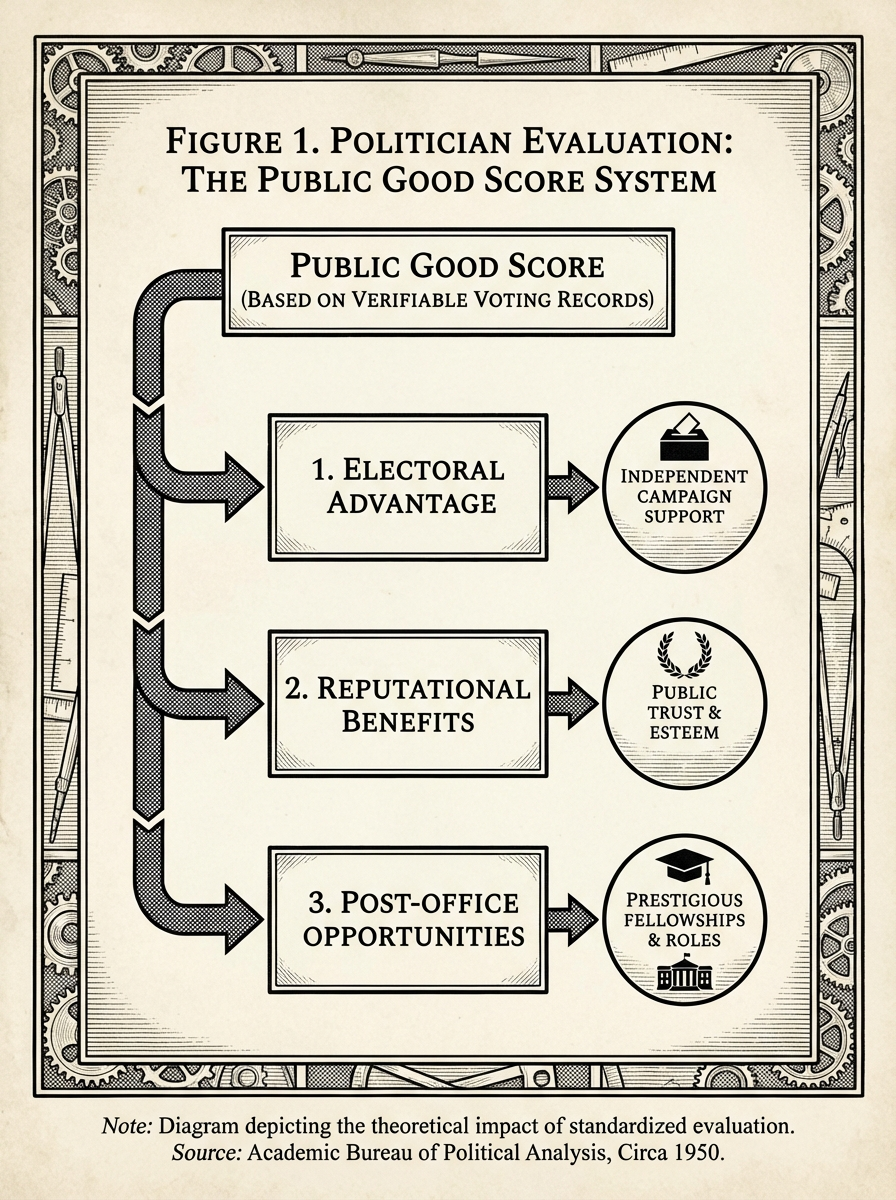
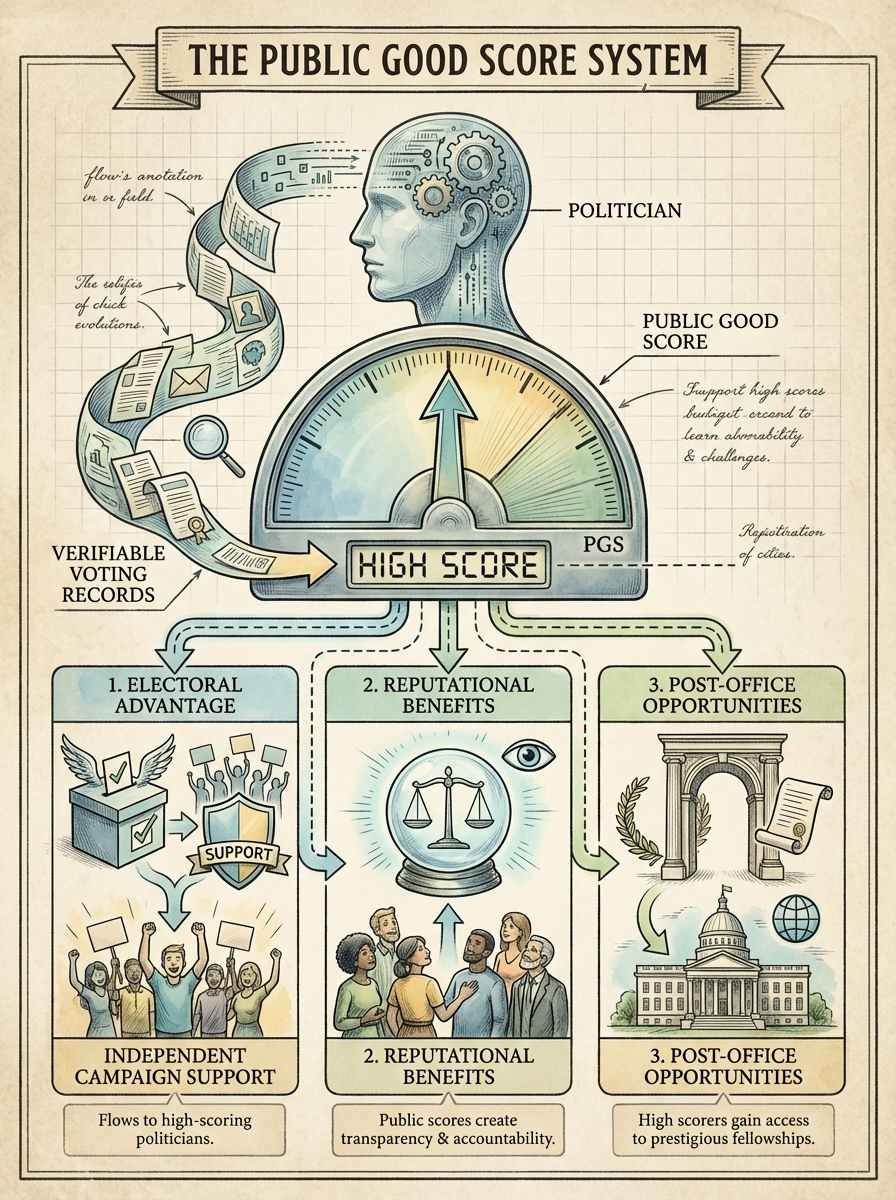
feat: Add new academic images to economics section and update image prompts for improved style consistency

diff --git a/scripts/lib/image-prompts.ts b/scripts/lib/image-prompts.ts
@@ -8,7 +8,9 @@
  */
 export const RETRO_FUTURISTIC_STYLE = `Use a fun retro futuristic style and LARGE text.`;
 
-export const ACADEMIC_STYLE = `Use a retro scientific black and white academic style.`;
+export const ACADEMIC_STYLE = `Use a monochromatic scientific illustration style.`;
+
+//export const ACADEMIC_STYLE = `Use a retro scientific black and white academic style.`;
 
 /**
  * Text legibility requirements based on Gemini 3 Pro Image best practices
